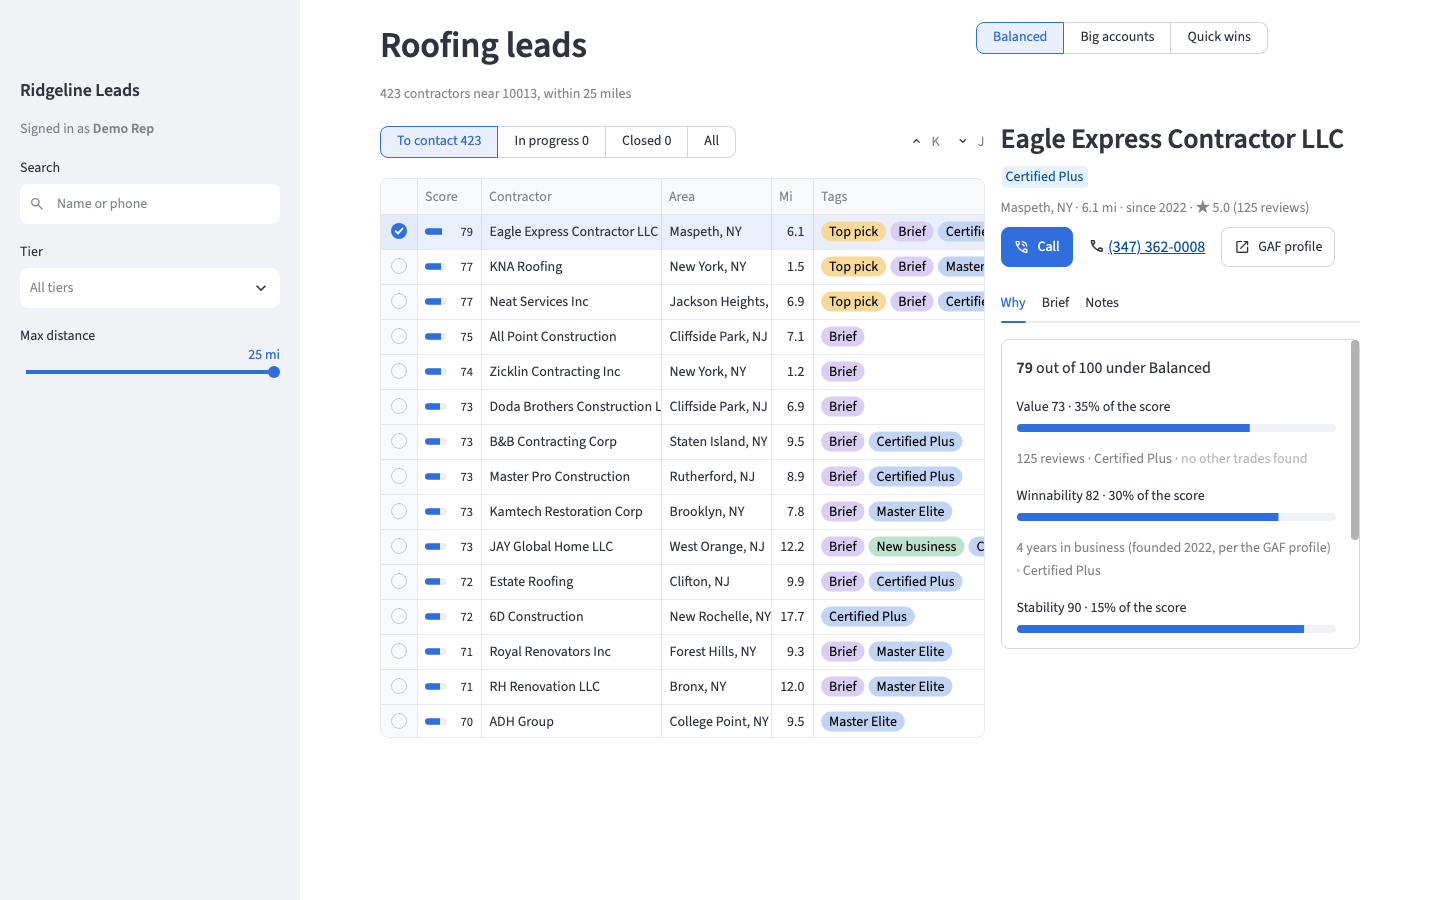
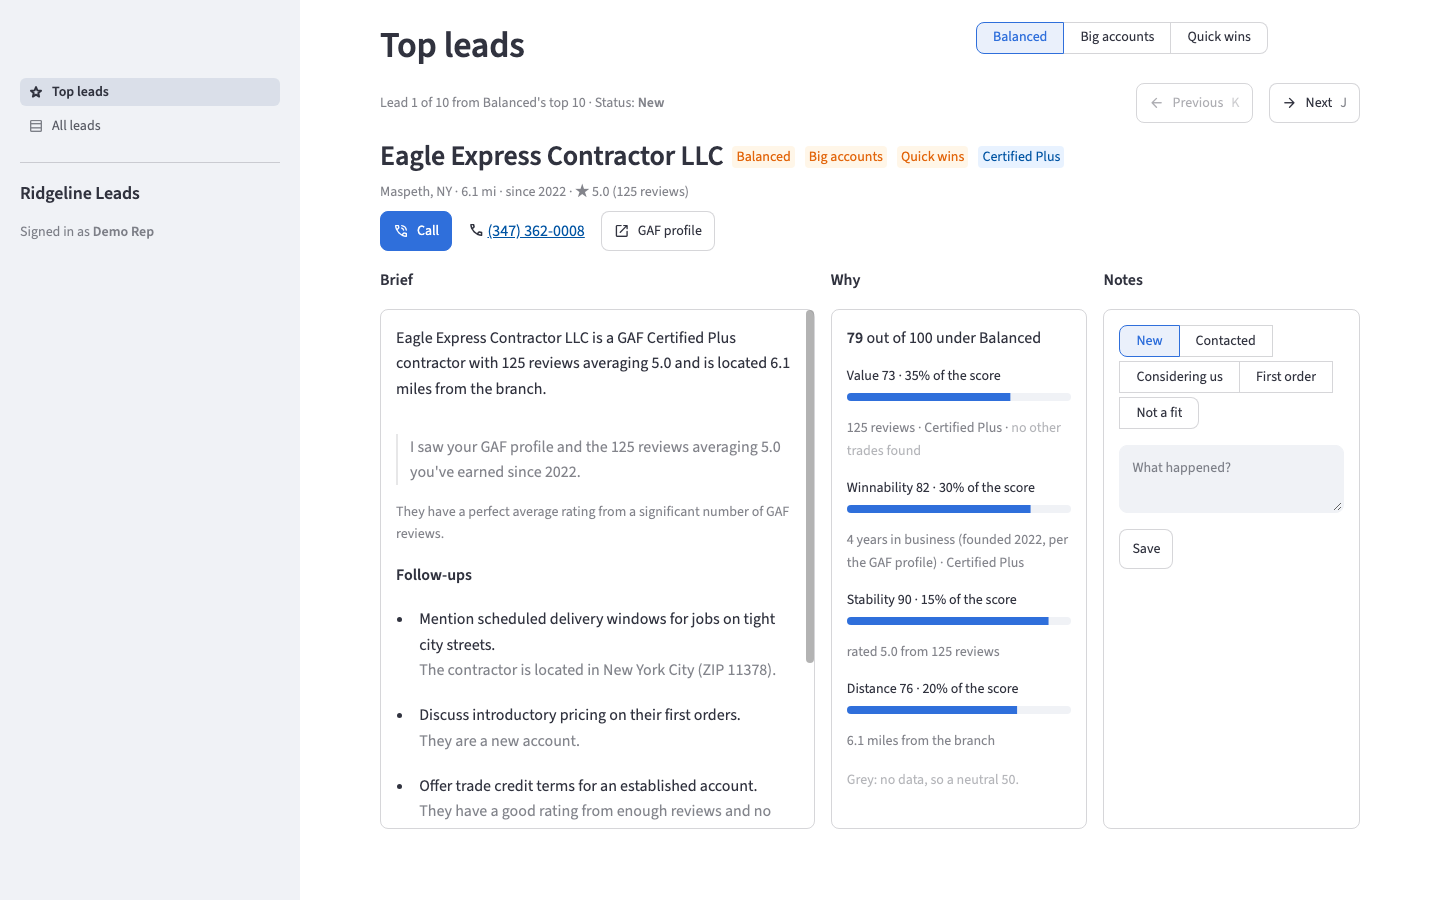
Document the Top leads landing page and retake the README screenshots
README, DESIGN.md's UI section, and AGENTS.md's layout now describe the two
pages, the preset tags, and app_pages/. docs/app.png shows Top leads,
docs/call-sheet.png the call sheet beside it, and docs/all-leads.png the table.

diff --git a/README.md b/README.md
@@ -1,10 +1,12 @@
 # Ridgeline Leads
 
-Ridgeline Leads is a sales-intelligence tool for a roofing distributor's branch: a batch pipeline finds the GAF-certified roofing contractors near the branch, enriches them from their GAF profiles and websites, scores them with plain rules, and has an AI write a short touch plan for the top leads. A Streamlit app gives reps the ranked lead list, the reasons behind each score, each lead's brief, and a call sheet to log the call.
+Ridgeline Leads is a sales-intelligence tool for a roofing distributor's branch: a batch pipeline finds the GAF-certified roofing contractors near the branch, enriches them from their GAF profiles and websites, scores them with plain rules, and has an AI write a short touch plan for the top leads. A Streamlit app opens on Top leads: the chosen preset's top 10, one lead at a time, with its brief, the reasons behind its score, its notes, and a call sheet to log the call. All leads, a second page, has the full ranked list.
 
-![The lead list, ranked by the Balanced preset](docs/app.png)
+![Top leads: Balanced's first lead, with its brief, score, and notes side by side](docs/app.png)
 
-![The call sheet beside the lead list](docs/call-sheet.png)
+![The call sheet beside the lead](docs/call-sheet.png)
+
+![All leads: every contractor, ranked by the Balanced preset](docs/all-leads.png)
 
 ## Run it
 
@@ -62,11 +64,11 @@ The seed keeps the pipeline's output but not its raw pages: no GAF search or pro
 
 | What you change | Where | Then rerun | Why |
 |---|---|---|---|
-| Preset weights, or a new preset | `presets` in `config/scoring.yaml` (each must add up to 100) | Nothing for the ranking: click Rerun in the app. Then `brief` for leads new to a preset's top N. | A preset's total is worked out from the stored component scores when leads are read, and never stored. |
+| Preset weights, or a new preset | `presets` in `config/scoring.yaml` (each must add up to 100) | Nothing for the ranking: click Rerun in the app. Then `brief` for leads new to a preset's top N; Top leads skips them until they have one. | A preset's total is worked out from the stored component scores when leads are read, and never stored. A new preset gets its own tag. |
 | Scoring points, buckets, and flag thresholds | `value`, `winnability`, `stability`, and `flags` in `config/scoring.yaml`; bump `rules_version` | `score`, then `brief` | Scores are stored, and each says which `rules_version` made it. A brief's input includes its lead's matched selling points, and credit terms depend on stability and flags. |
 | Territory | `territory` in `config/distributor.yaml`: `zip`, `lat`, `lng` (the branch's coordinates; nothing looks them up from the ZIP), `radius_miles` | Every stage, from `discover` | Discover searches around `lat`/`lng` within the radius. The distance score (100 at the branch, 0 at the radius) and the app's distance filter use the same center and radius. |
 | Selling points | `selling_points` in `config/distributor.yaml`; which lead gets which is `match_selling_points()` in `app/briefs.py` | `brief` | A matched point's description is part of the brief's input, so a changed description rewrites those briefs. A new point needs a rule in `match_selling_points()`, and every id a rule names must stay in the file. |
-| How many top leads get briefs | `TOP_LEADS_PER_PRESET` in `.env` (default 10) | `brief`; the app's Top pick tag follows on Rerun | The brief stage writes briefs for each preset's top N, and the app tags the same N. |
+| How many top leads get briefs | `TOP_LEADS_PER_PRESET` in `.env` (default 10) | `brief`; the app's preset tags and Top leads follow on Rerun | The brief stage writes briefs for each preset's top N. The app tags the same N with the preset's name, and Top leads steps through them. |
 | The model | `GEMINI_MODEL` in `.env` (default `gemma-4-31b-it`) | `extract`, `score`, `brief`; then `python -m app.evals extract` to compare | The model is part of every AI cache key and every brief's record, so a new model answers everything again. Score reads the facts extract writes. |
 | A prompt | Add `app/ai/prompts/<name>_v<N+1>.txt` and point `PROMPT` at it in `app/pipeline/extract.py` or `app/pipeline/brief.py` | That stage (and `score` and `brief` after `extract`) | The cache key holds the prompt's name, not its text, so editing a prompt file in place keeps reusing the cached answers. |
 
@@ -79,7 +81,8 @@ The seed keeps the pipeline's output but not its raw pages: no GAF search or pro
 - `app/pipeline/`: the command line and one module per stage
 - `app/services/`: leads, notes, and reps; each function takes a session and returns Pydantic models
 - `app/sources/`: one adapter per data source: GAF's search, GAF profile pages, and contractor websites
-- `app/ui/`: the Streamlit page (`main.py`) and its only route to the services (`data.py`)
+- `app/ui/`: the Streamlit pages (`main.py`) and their only route to the services (`data.py`)
+- `app_pages/`: one two-line file per page, which Streamlit's navigation runs
 - `config/`: `distributor.yaml` (territory and selling points) and `scoring.yaml` (every scoring number and the presets)
 - `docs/`: the screenshots above
 - `evals/`: `extract_gold.yaml`, the hand-checked facts the eval scores against

diff --git a/DESIGN.md b/DESIGN.md
@@ -14,9 +14,9 @@ I assumed a new distributor entering the market, so every contractor is a prospe
 
 ## 2. What a rep gets
 
-![The lead list under the Balanced preset, with Eagle Express selected and its Why tab open](docs/app.png)
+![Top leads under the Balanced preset, on Eagle Express, with its brief, score, and notes side by side](docs/app.png)
 
-- **Who to call first:** a ranked list under the rep's chosen preset (Balanced, Big accounts or Quick wins), with the signals behind each score.
+- **Who to call first:** the app opens on the chosen preset's top 10 (Balanced, Big accounts or Quick wins), one lead at a time, with the signals behind each score. Every other contractor is a click away, ranked the same way.
 - **What to say:** for each preset's top 10, a brief with why this contractor, an opener, follow-ups, and questions about upcoming jobs.
 - **What we know:** facts from the contractor's GAF profile and website, each with the quote it came from: the ones a brief cites, or all of them for a lead without a brief.
 - **Where it stands:** a status on the ladder, notes, and a call sheet that logs a call in one step.
@@ -111,18 +111,20 @@ I chose Streamlit over React, NiceGUI and HTMX. Python is my strongest language,
 
 The principle is that a rep should know the next step within seconds of opening a lead. A review at laptop size shaped the layout:
 
-- One screen with no page scroll: the ranked table on the left, the selected lead on the right.
-- The table answers "who first?": it's sorted by score, with tags only for exceptions, like Top pick or New business.
-- The selected lead has three tabs: Why, Brief and Notes.
-- A filter counts leads by stage, so the list shrinks as the rep works.
+- The app opens on Top leads: one lead at a time from the chosen preset's top 10, with its brief, its score's reasons, and its notes side by side, so nothing hides behind a tab. Previous and Next step through the 10.
+- Top leads shows only leads with a brief, so every lead on it comes with a plan.
+- Tags name only exceptions: the presets whose top 10 a lead is in, a tier above Certified, or New business.
+- All leads, the second page, keeps every contractor: the ranked table on the left and the selected lead on the right, in tabs.
+- On All leads, a filter counts leads by stage, so the list shrinks as the rep works.
 - Search by name or phone doubles as a lookup when a contractor calls in.
 - A call sheet logs the outcome and opens the next lead.
+- Each page fits one laptop screen with no page scroll.
 
-![The call sheet for Eagle Express, open beside the lead list](docs/call-sheet.png)
+![The call sheet for Eagle Express, open beside the lead](docs/call-sheet.png)
 
 ## 5. How I built it
 
-I built the system in nine slices with Claude Code, checking each against its brief and the tests before starting the next. The 178 tests run offline against saved real pages, so a change to a parser or a rule is checked without touching the network. Each brief placed the work in the whole system: the files it touched, the rules every slice keeps, and the checks that prove it's done. Those rules and a map of the code are committed as AGENTS.md, so another developer, or their own agent, can pick up the codebase quickly. The README's table shows what can be customized, where, and what to rerun. I kept a decision log throughout, and this document condenses it.
+I built the system in nine slices with Claude Code, checking each against its brief and the tests before starting the next. The 183 tests run offline against saved real pages, so a change to a parser or a rule is checked without touching the network. Each brief placed the work in the whole system: the files it touched, the rules every slice keeps, and the checks that prove it's done. Those rules and a map of the code are committed as AGENTS.md, so another developer, or their own agent, can pick up the codebase quickly. The README's table shows what can be customized, where, and what to rerun. I kept a decision log throughout, and this document condenses it.
 
 ## 6. What I'd do with another 8 hours
 

diff --git a/AGENTS.md b/AGENTS.md
@@ -27,7 +27,8 @@ Python 3.11+, SQLAlchemy 2.0 (typed ORM models), Alembic (render_as_batch=True),
 - app/sources/: one adapter per data source (coveo.py for GAF's search, gaf_profile.py, websites.py)
 - app/pipeline/: CLI entry point and one module per stage
 - app/services/: one module per area (leads.py, notes.py, reps.py); functions take a session and return Pydantic models
-- app/ui/: main.py (the page, drawn by main()) and data.py (the UI's only route to services). streamlit_app.py at the repo root calls main().
+- app/ui/: main.py and data.py (the UI's only route to services). main() draws what both pages share (sidebar, title, preset picker), then runs the current page through st.navigation: top_leads_page() (Top leads, the landing page) or all_leads_page() (All leads). streamlit_app.py at the repo root calls main().
+- app_pages/: top_leads.py and all_leads.py, two-line files that call the page functions in app/ui/main.py. st.navigation needs a file per page so AppTest can switch to it.
 - app/ai/: client.py (generate(), the one way to call the AI: ai_cache, validation, pacing, backoff) and prompts/ (versioned prompt files, e.g. extract_facts_v1.txt; a stage names its prompt in PROMPT)
 - app/evals/: python -m app.evals extract scores each extracted field's precision and recall against evals/extract_gold.yaml (hand-corrected gold), from cached answers, and writes each gold contractor's exact input to evals/inputs/<GAF ID>.txt (gitignored)
 - migrations/: Alembic. The initial migration also seeds the demo rep (10013, 25 miles).
